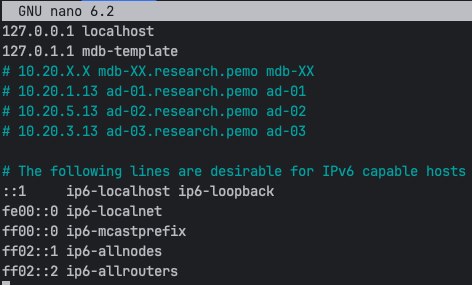
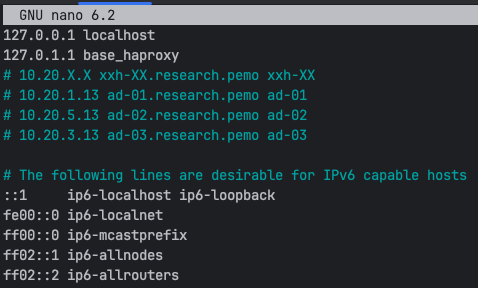
Merge step 12.2 with step 3 settings.

Changed region(s): [[0.0, 0.0, 1.0, 0.5053], [0.0, 0.5614, 1.0, 1.0]]

diff --git a/HAproxy/base_haproxy_vm_setup.md b/HAproxy/base_haproxy_vm_setup.md
@@ -18,14 +18,16 @@ ___
    ```shell
    sudo nano /etc/hosts
    ```
-   Place the following text into the file:
+   Place the following text into the file:  
    ```shell
    127.0.1.1 base_haproxy
-   # 10.20.X.X xxh-xx.research.pemo xxh-xx
+   # 10.20.X.X xxh-XX.research.pemo xxh-XX
    # 10.20.1.13 ad-01.research.pemo ad-01
    # 10.20.5.13 ad-02.research.pemo ad-02 
    # 10.20.3.13 ad-03.research.pemo ad-03
    ```
+   Settings should look similar to the image below:  
+   ![](img/base_ad_hosts_file.png)  
 4. Reset the machine ID using the following commands:
    ```shell
    sudo  rm  -f  /etc/machine-id /var/lib/dbus/machine-id
@@ -81,14 +83,8 @@ ___
        sudo apt install samba krb5-config krb5-user winbind libnss-winbind libpam-winbind -y 
        ```
        When prompt for the kerberos default realm type `RESEARCH.PEMO` then highlight over `Ok` and press enter as in the image below:   
-       ![](img/default_kerberos_realm.png)  
-    2. Update the hosts file with the active directory controllers and the base fully qualified domain name for the HAProxy server using the following command:    
-       ```shell
-       sudo nano /etc/hosts
-       ```
-       Settings should look similar to the image below:   
-       ![](img/base_ad_hosts_file.png)
-    3. Edit the Kerberos configuration file using the `nano` command:   
+       ![](img/default_kerberos_realm.png)
+    2. Edit the Kerberos configuration file using the `nano` command:   
         ```shell
         sudo nano /etc/krb5.conf
         ```
@@ -106,7 +102,7 @@ ___
        .research.pemo = .RESEARCH.PEMO
        research.pemo = RESEARCH.PEMO
        ```
-    4. Edit the Samba configuration file using the `nano` command:  
+    3. Edit the Samba configuration file using the `nano` command:  
        ```shell
        sudo nano /etc/samba/smb.conf
        ```
@@ -135,7 +131,7 @@ ___
        template shell = /bin/bash
        template homedir = /home/%U
        ```
-    5. Edit the name service switch configuration file using the `nano` command:  
+    4. Edit the name service switch configuration file using the `nano` command:  
        ```shell
         sudo nano /etc/nsswitch.conf
        ```
@@ -155,7 +151,7 @@ ___
        
        netgroup: nis
        ```
-    6. Edit the `/etc/sudoers.tmp` sudoers configuration using the command below:   
+    5. Edit the `/etc/sudoers.tmp` sudoers configuration using the command below:   
        ```shell
         sudo visudo
        ```
@@ -163,7 +159,7 @@ ___
        ```text
        %cansudo All=(ALL:ALL) ALL
        ```
-    7. Ensure a user's home directory is created upon their first login, using the following command:  
+    6. Ensure a user's home directory is created upon their first login, using the following command:  
        ```shell
        sudo pam-auth-update --enable mkhomedir
        ```
@@ -238,7 +234,7 @@ ___
    > priority  
    > virtual_ipaddress  
     
-    Don't start the keepalived service, make sure it's stopped using the following command:
+    Don't start the keepalived service, make sure it's stopped using the following command:  
     ```shell
     sudo service keepalived stop
     ```
